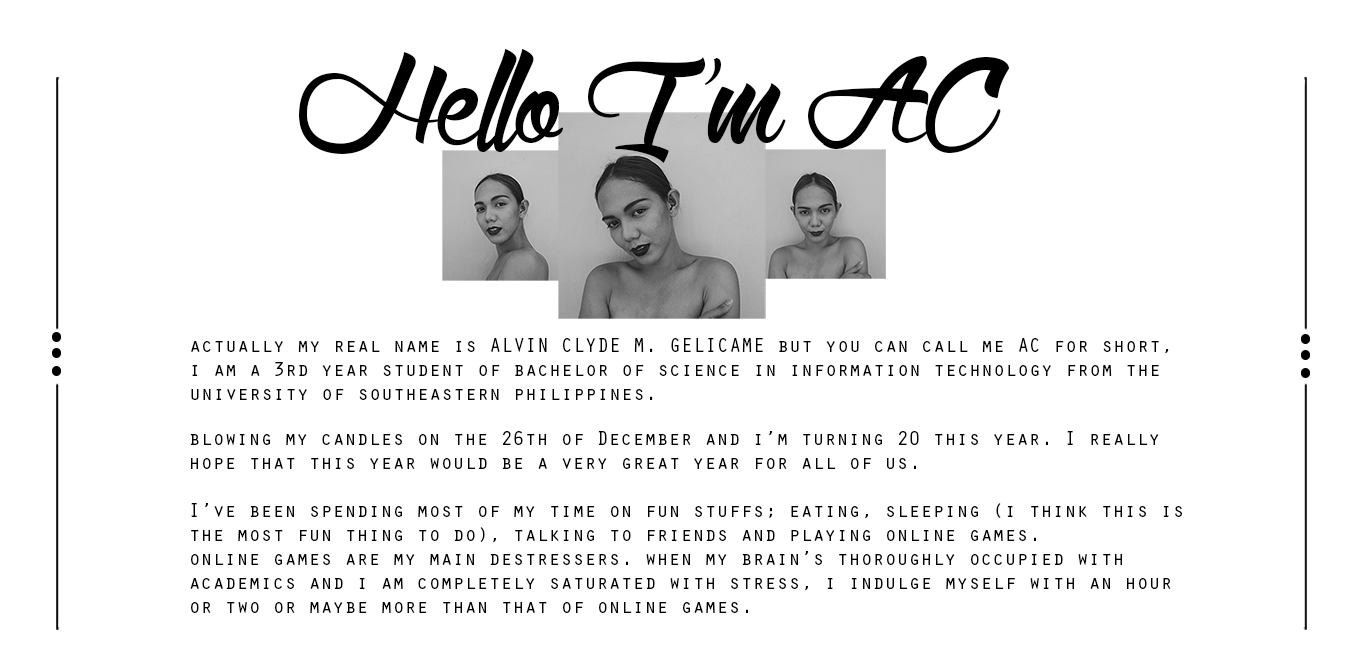
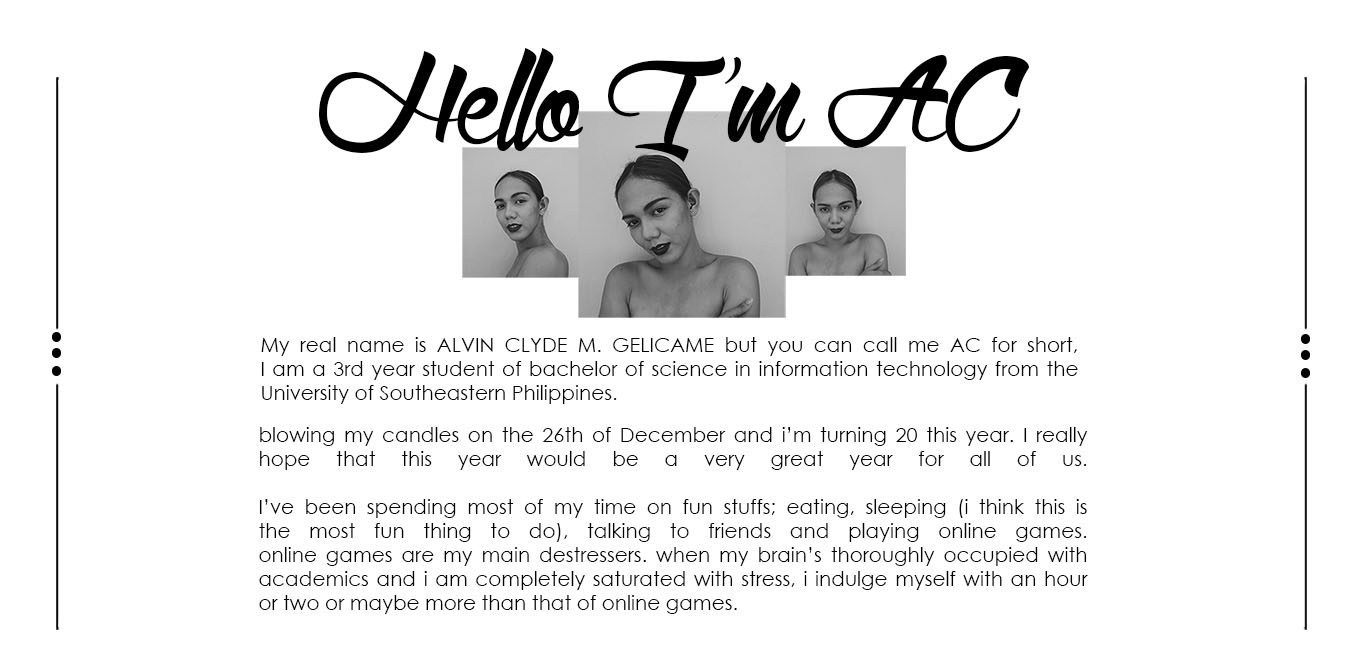
Added another division photo, modified the fonts

diff --git a/Styles/Style.css b/Styles/Style.css
@@ -2,7 +2,7 @@
 	
 	display: inline-box;
 	border-radius: 60px;
-	background-color: black;
+	background-color: #384255;
 	border: none;
 	text-align: center;
 	font-family: MingLiU-ExtB;
@@ -44,11 +44,11 @@
 }
 
 .button:hover{
-	background-color: #31302f;
+	background-color: #384255;
 }
 
 .button:active{
-	background-color: #31302f;
+	background-color: #384255;
 }
 
 #welcome-page{
@@ -68,10 +68,10 @@
 
 #Header{
     width: 100%;
-    height: 55px;
-    background-color: black;
+    height: 60px;
+    background-color: #587175;
     position: fixed;
-    top: -15px;
+    top: -17px;
     left: 0px;
     margin-bottom: 10px;
     
@@ -80,7 +80,7 @@
 #Navi {
 
 	width: 1366px;
-	height: 68px;  
+	height: 70px;  
 	background-color: #384255;
 	position: fixed; 
 	margin: 0px auto; 
@@ -89,7 +89,7 @@
 a {
 
 	color: white;
-	font-family:MingLiU-ExtB; 
+	font-family:Century Gothic; 
 	text-decoration: none;
 	font-size: 17px;
 	
@@ -111,7 +111,7 @@ ul li {
 
 a:hover {
 
-	color: grey;
+	color: White;
 
 }
 
@@ -123,16 +123,18 @@ ul li:hover {
 
 
 #footer{
-
-	margin-top: 0%;
-	width: 100%;
-	height: 37px;
+	
+	margin-top: 5px;
+	width:100%;
+	height: 39px;
 	color: white;
 	position: absolute;
-	background-color: #000000;
+	background-color:#384255;
+
 }
 
 #footer p{
+
 	text-align: center;
   	margin-top: 12px;
 	margin-left: 14px;

diff --git a/index.html b/index.html
@@ -11,6 +11,7 @@
 	<div id = "Header">
 
 	<div id = "Navbar">
+	
 	<a id = "top"> </a>
 	<ul>
 	 <li>    <a href="#Portraits"> Portraits </a> &nbsp </li>
@@ -23,10 +24,14 @@
 	</div>
 	<a id = "home"> </a> <br> <br> <br>
 	<img src = 'Images/Background.jpg'> 
-	<img src = 'Images/divider.png'> 
+	<br> <br> <br> <br>
+	<img src = 'Images/divider.png'>
+	<br> <br> <br>
+	<center> <img src = 'Images/header1.jpg' width = "100%"> </center>
 	</div>
 	<br> <br> <br> 
-	<a id = "About"> 
+	<a id = "About">
+	<img src = 'Images/divider.png'> 
 	<img src = 'Images/Aboutme.jpg'>  <br> <br> <br> <br> <br> <br> <br>
 	</div>
 	<div id ="footer">

diff --git a/intro.html b/intro.html
@@ -6,7 +6,7 @@
 <link href="styles\style.css" type="text/css" rel="stylesheet" />
 
 </head>
-<body>
+<body style="background-color:#e2e5ec;">
 <div id ="welcome"> 
 <center> <img src = "Images/Welcome.png"> </center>
 </div>	
